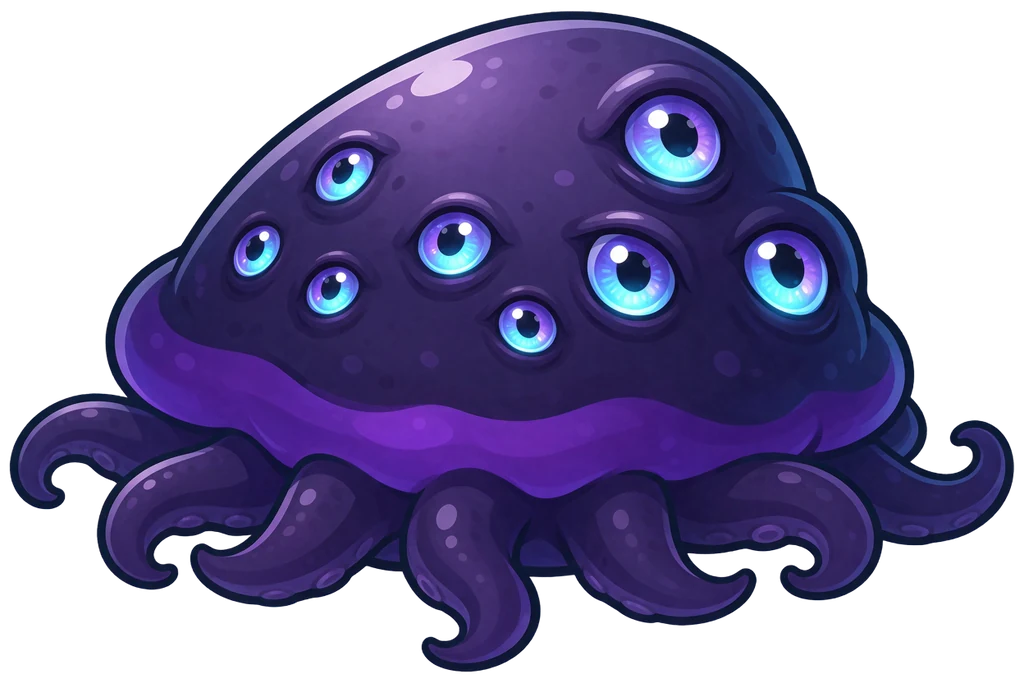
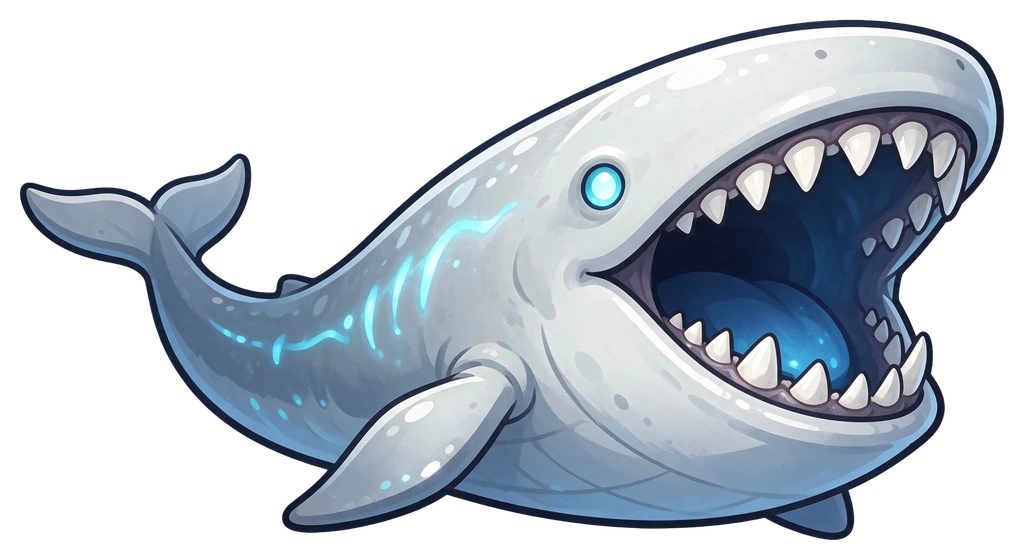
The Bloop: new boss art (pale abyssal leviathan with a gaping toothy maw), body aspect 0.53

diff --git a/js/data.js b/js/data.js
@@ -154,7 +154,7 @@
   cr('abyssal',   { n: 'Abyssal wraith fish', size: 180, k: 'food', ai: 'wraith', spd: 1.0, flee: 0.7, shape: 'fish', c1: '#7a6ae0', c2: '#d8d0ff', asp: 0.4, glow: 0.6 });
   cr('giantsquid7', { n: 'Giant squid', sband: 'deep', size: 230, k: 'pred', ai: 'patrol', spd: 0.5, det: 4, chase: 0.7, shape: 'squid', c1: '#5a2f8a', c2: '#b88cf0', asp: 0.45, sp: { grab: 1 } });
   cr('leviathan', { n: 'Leviathan eel', size: 300, k: 'pred', ai: 'serpent', spd: 0.9, shape: 'eel', c1: '#4a2a6a', c2: '#ff8cf0', asp: 0.16, m: 5, glow: 0.4 });
-  cr('bloop',     { n: 'The Bloop', size: 400, k: 'pas', ai: 'boss', spd: 0, shape: 'bloop', c1: '#3a1f5a', c2: '#ff6fd8', asp: 0.8, vis: 2.4, glow: 0.5 });
+  cr('bloop',     { n: 'The Bloop', size: 400, k: 'pas', ai: 'boss', spd: 0, shape: 'bloop', c1: '#3a1f5a', c2: '#ff6fd8', asp: 0.53, vis: 2.4, glow: 0.5 });
   // QA helper creature: a still fish with a free size (spawn('test_peer', x, y, {size: n}))
   cr('test_peer', { n: 'Test fish', size: 10, k: 'food', ai: 'still', spd: 0, shape: 'fish', c1: '#aaaaaa', c2: '#ffffff', asp: 0.5, art: 'CRT_test' });
 
